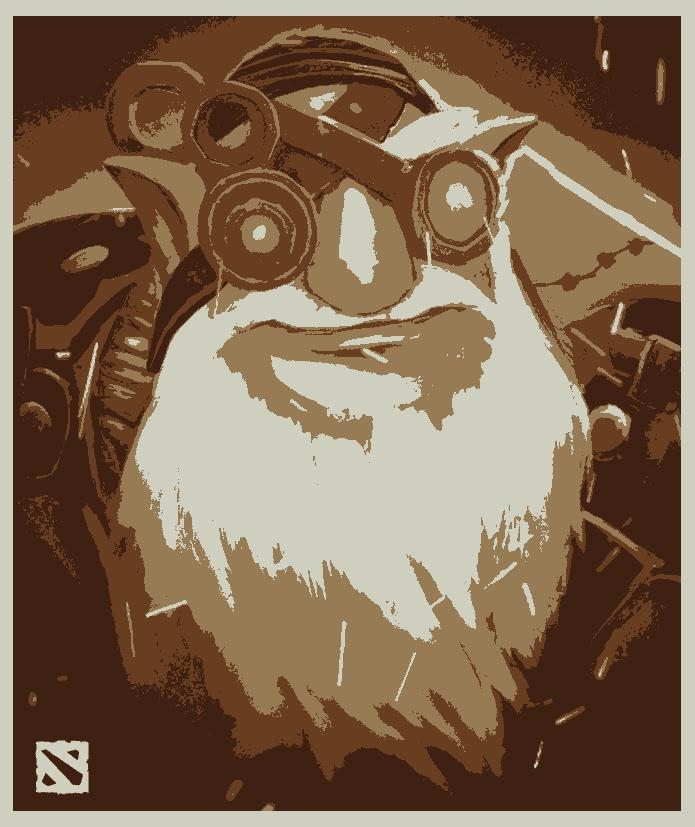
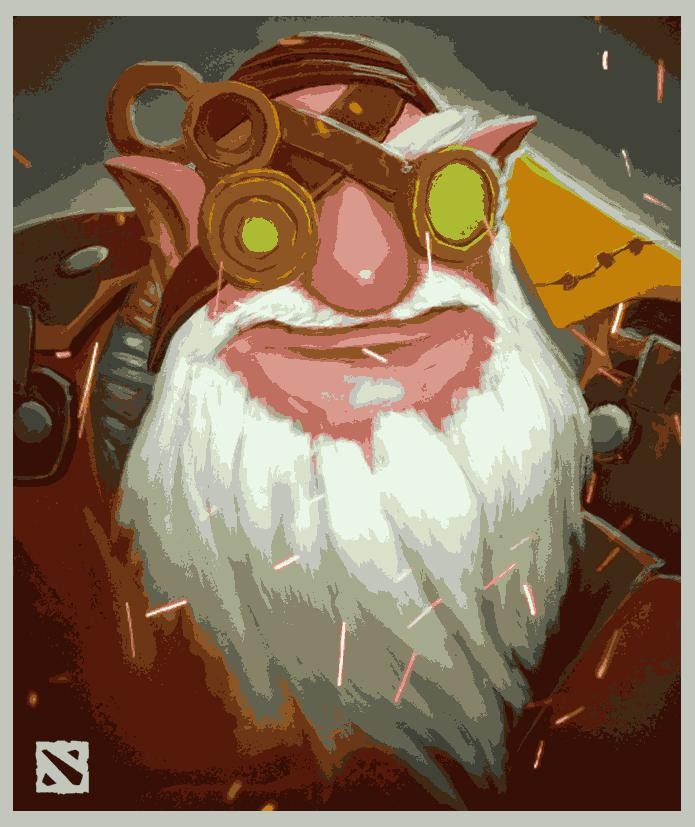
Add Dont Starve pic

diff --git a/Kmean/KmeanColorQuantization.py b/Kmean/KmeanColorQuantization.py
@@ -37,9 +37,9 @@ def KmeanImgCompress(file_name, kmn_centroid=4, kmn_iter=10):
     output_img.save(f'{file_name[:-4]}_Quantuzed.jpg')
 
 if __name__ == "__main__":
-    file_name = "sniper.jpg"
+    file_name = "dontstarve.jpg"
     color = 16
-    max_iteration = 10
+    max_iteration = 20
     start_time = time.time()
     kmn_img = KmeanImgCompress(file_name, color, max_iteration)
     elapsed = np.round(time.time() - start_time, 3)
